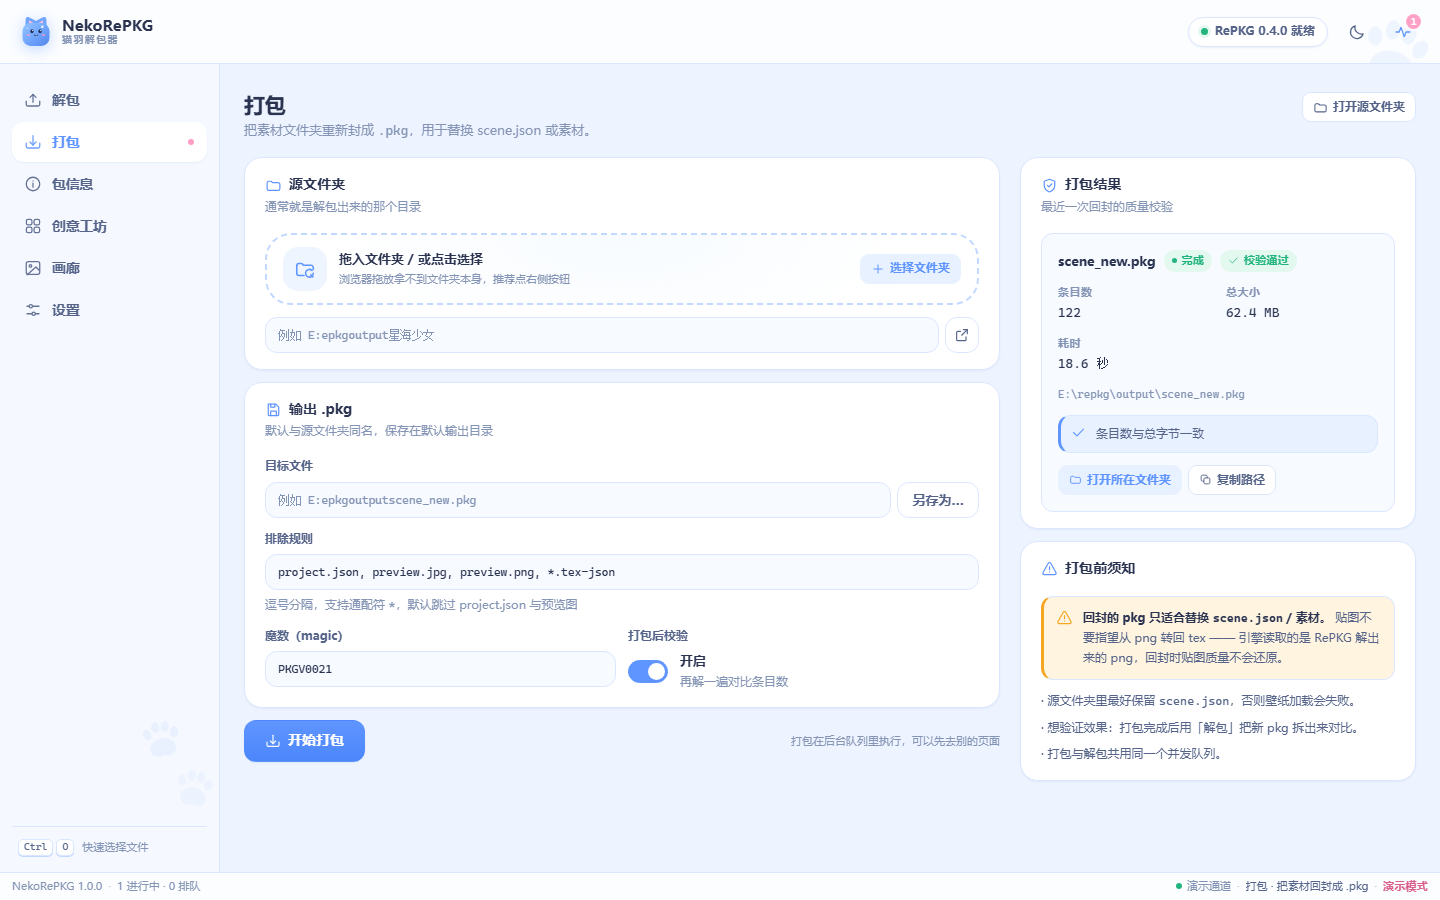
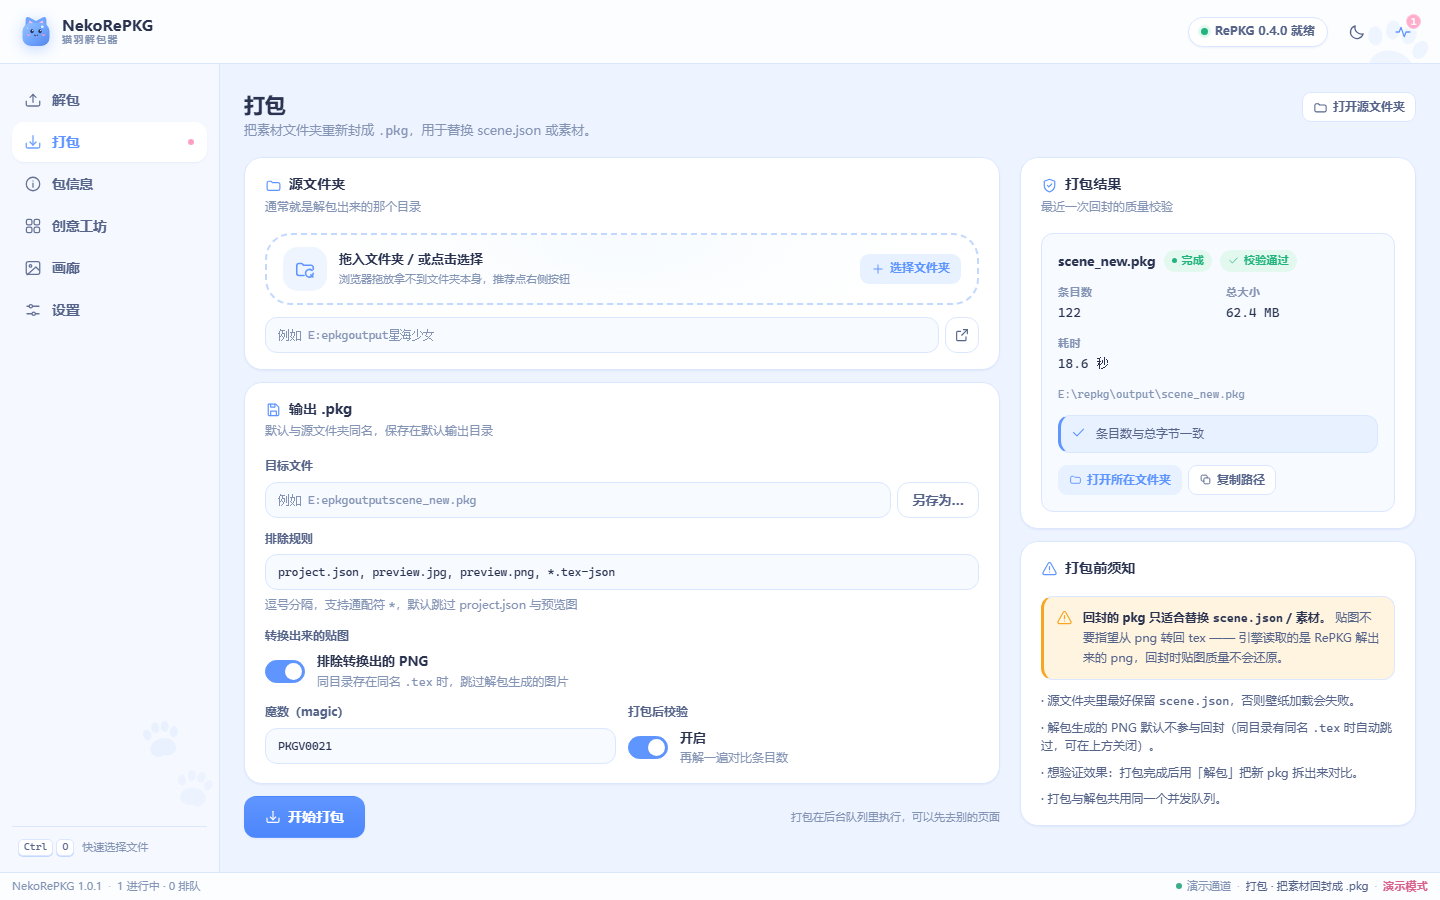
release: NekoRePKG v1.0.0（源码 + 官网 docs/）

diff --git a/app/web/js/mock.js b/app/web/js/mock.js
@@ -496,7 +496,7 @@ function stateSnapshot() {
     ok: true,
     app: {
       name: 'NekoRePKG',
-      version: '1.0.0',
+      version: '1.0.1',
       platform: 'windows',
       log_dir: LOG_DIR,
       config_path: j(CONFIG_DIR, 'config.json'),
